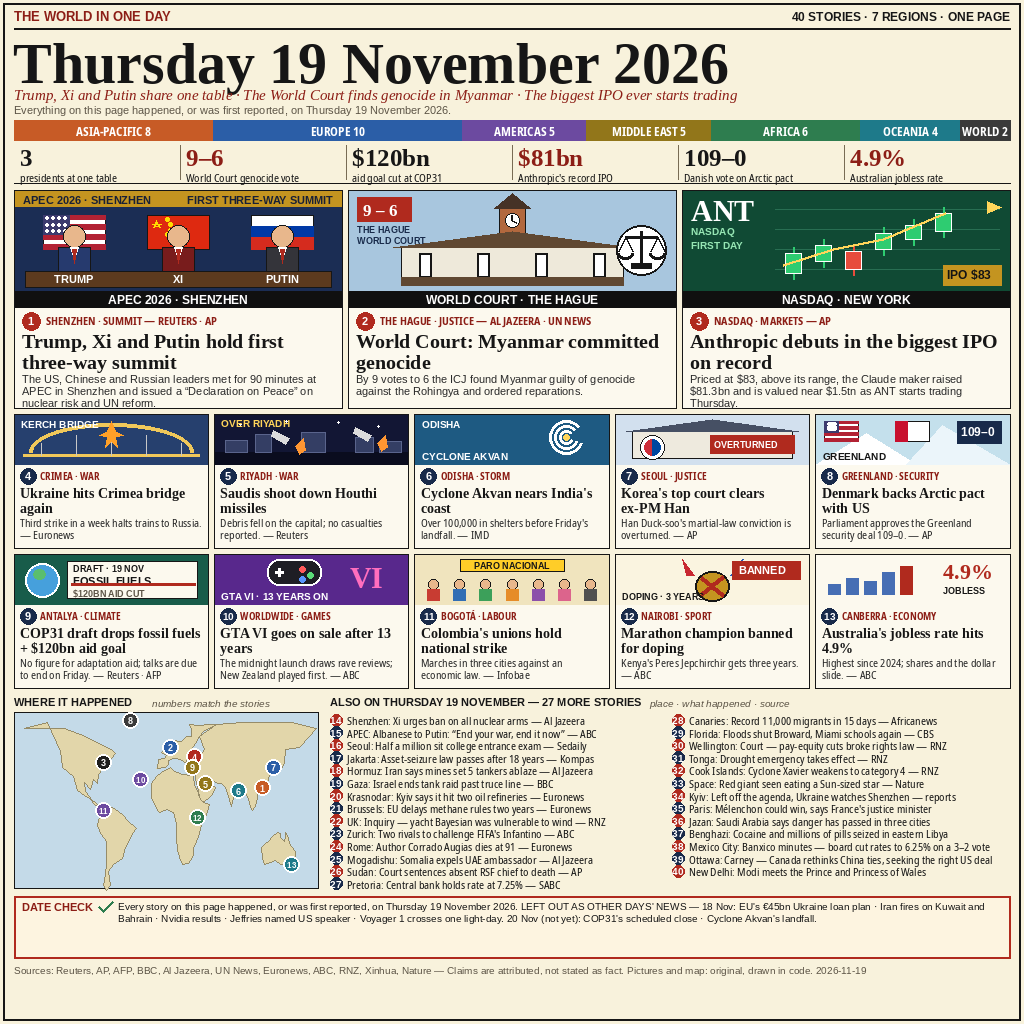
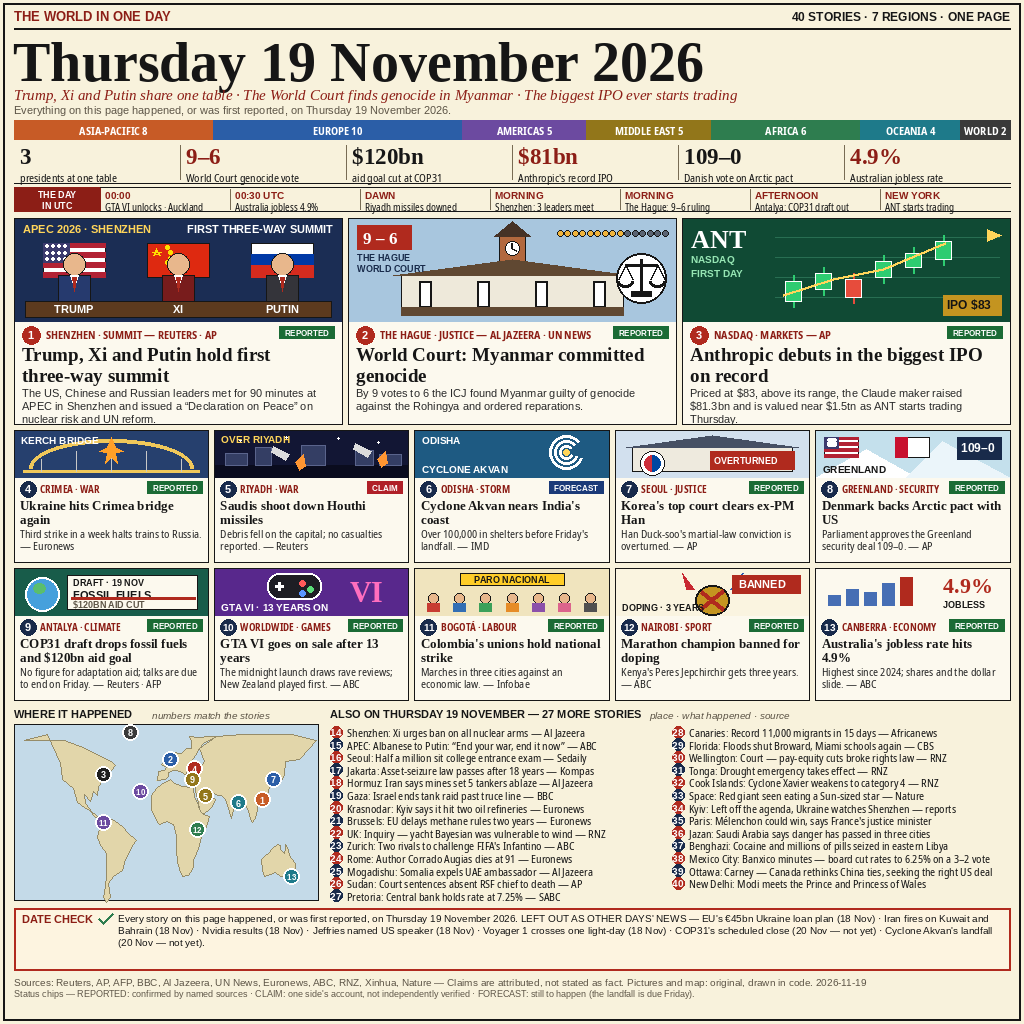
v3: UTC timeline strip, REPORTED/CLAIM/FORECAST status chips, dated DATE CHECK, judge dots

diff --git a/main.py b/main.py
@@ -100,6 +100,26 @@ def num_badge(draw, x, y, n, fill, r=9):
     draw.text((x + r - w / 2, y + r - 6), t, font=f, fill=(255, 255, 255))
 
 
+CHIP_COLORS = {"REPORTED": (27, 107, 53), "CLAIM": (176, 32, 40), "FORECAST": (27, 58, 120)}
+
+
+def chip_for(n):
+    # story 5 is the Saudi account of the Riyadh interceptions (one side's
+    # claim); story 6 is a cyclone still approaching the coast (a forecast)
+    if n == 5:
+        return "CLAIM"
+    if n == 6:
+        return "FORECAST"
+    return "REPORTED"
+
+
+def status_chip(draw, right_x, y, label):
+    f = F(SANS_B, 8)
+    w = tw(draw, label, f) + 10
+    draw.rectangle([right_x - w, y, right_x, y + 12], fill=CHIP_COLORS[label])
+    draw.text((right_x - w + 5, y + 2), label, font=f, fill=(255, 255, 255))
+
+
 # ---------------------------------------------------------------- data
 REGIONS = [
     ("ASIA-PACIFIC 8", (199, 91, 38)),
@@ -158,7 +178,7 @@ CARDS = [
      "head": "Denmark backs Arctic pact with US",
      "body": "Parliament approves the Greenland security deal 109–0."},
     {"n": 9, "tag": "ANTALYA · CLIMATE", "src": "Reuters · AFP", "art": "cop",
-     "head": "COP31 draft drops fossil fuels + $120bn aid goal",
+     "head": "COP31 draft drops fossil fuels and $120bn aid goal",
      "body": "No figure for adaptation aid; talks are due to end on Friday."},
     {"n": 10, "tag": "WORLDWIDE · GAMES", "src": "ABC", "art": "game",
      "head": "GTA VI goes on sale after 13 years",
@@ -206,9 +226,10 @@ BRIEFS = [
 
 DATE_CHECK = (
     "Every story on this page happened, or was first reported, on Thursday 19 November 2026. "
-    "LEFT OUT AS OTHER DAYS' NEWS — 18 Nov: EU's €45bn Ukraine loan plan · Iran fires on Kuwait "
-    "and Bahrain · Nvidia results · Jeffries named US speaker · Voyager 1 crosses one light-day. "
-    "20 Nov (not yet): COP31's scheduled close · Cyclone Akvan's landfall."
+    "LEFT OUT AS OTHER DAYS' NEWS — EU's €45bn Ukraine loan plan (18 Nov) · Iran fires on Kuwait "
+    "and Bahrain (18 Nov) · Nvidia results (18 Nov) · Jeffries named US speaker (18 Nov) · "
+    "Voyager 1 crosses one light-day (18 Nov) · COP31's scheduled close (20 Nov — not yet) · "
+    "Cyclone Akvan's landfall (20 Nov — not yet)."
 )
 
 SOURCES = (
@@ -255,10 +276,9 @@ def _flag_ru(draw, x, y, w, h):
 def art_summit(draw, box):
     x0, y0, x1, y1 = box
     draw.rectangle(box, fill=(27, 45, 84))
-    draw.rectangle([x0, y0, x1, y0 + 15], fill=GOLD)
-    draw.text((x0 + 8, y0 + 3), "APEC 2026 · SHENZHEN", font=F(SANS_B, 11), fill=(24, 32, 54))
+    draw.text((x0 + 8, y0 + 4), "APEC 2026 · SHENZHEN", font=F(SANS_B, 11), fill=(255, 213, 90))
     draw.text((x1 - 8 - tw(draw, "FIRST THREE-WAY SUMMIT", F(SANS_B, 11)),
-               y0 + 3), "FIRST THREE-WAY SUMMIT", font=F(SANS_B, 11), fill=(24, 32, 54))
+               y0 + 4), "FIRST THREE-WAY SUMMIT", font=F(SANS_B, 11), fill=(255, 255, 255))
     fw, fh = 62, 34
     _flag_us(draw, x0 + 28, y0 + 24, fw, fh)
     _flag_cn(draw, (x0 + x1) / 2 - fw / 2, y0 + 24, fw, fh)
@@ -304,12 +324,17 @@ def art_court(draw, box):
     draw.rectangle([sx - 10, sy + 14, sx + 10, sy + 19], fill=INK)
     draw.rectangle([x0 + 8, y0 + 6, x0 + 62, y0 + 30], fill=RED)
     draw.text((x0 + 14, y0 + 9), "9 – 6", font=F(SERIF_B, 17), fill=(255, 255, 255))
+    # the fifteen judges as dots in the sky, top right: 9 gold for, 6 slate against
+    for i in range(15):
+        cx = x1 - 118 + i * 7.5
+        draw.ellipse([cx, y0 + 11, cx + 6, y0 + 17],
+                     fill=(240, 180, 60) if i < 9 else (90, 100, 115), outline=INK, width=1)
 
 
 def art_ipo(draw, box):
     x0, y0, x1, y1 = box
     draw.rectangle(box, fill=(16, 74, 52))
-    draw.text((x0 + 8, y0 + 3), "ANT", font=F(SERIF_B, 30), fill=(255, 255, 255))
+    draw.text((x0 + 8, y0 + 5), "ANT", font=F(SERIF_B, 26), fill=(255, 255, 255))
     draw.text((x0 + 8, y0 + 34), "NASDAQ", font=F(SANS_B, 10), fill=(150, 230, 180))
     draw.text((x0 + 8, y0 + 48), "FIRST DAY", font=F(SANS_B, 10), fill=(150, 230, 180))
     # grid + candles rising
@@ -529,7 +554,7 @@ def build_image():
     d.text((X1 - tw(d, right, f), 10), right, font=f, fill=INK)
     d.line([X0, 28, X1, 28], fill=INK, width=2)
     title = "Thursday 19 November 2026"
-    ts = fit_size(d, title, SERIF_B, 58, CW)
+    ts = fit_size(d, title, SERIF_B, 56, CW)
     d.text((X0 - 1, 31), title, font=F(SERIF_B, ts), fill=INK)
     stand = "Trump, Xi and Putin share one table · The World Court finds genocide in Myanmar · The biggest IPO ever starts trading"
     ss = fit_size(d, stand, SERIF_I, 15, CW, minimum=10)
@@ -544,8 +569,8 @@ def build_image():
     rx = X0
     for i, ((label, col), cnt) in enumerate(zip(REGIONS, counts)):
         seg_w = CW * cnt / total if i < len(REGIONS) - 1 else X1 - rx
-        d.rectangle([rx, ry, rx + seg_w, ry + 20], fill=col)
-        lf = F(COND_B, 12)
+        d.rectangle([rx, ry, rx + seg_w, ry + 19], fill=col)
+        lf = F(COND_B, 11)
         d.text((rx + (seg_w - tw(d, label, lf)) / 2, ry + 3), label, font=lf, fill=(255, 255, 255))
         rx += seg_w
 
@@ -557,59 +582,88 @@ def build_image():
         cx0 = X0 + i * cell
         if i > 0:
             d.line([cx0, ny + 2, cx0, ny + 36], fill=CREAM_LINE, width=1)
-        bf = F(SERIF_B, 25)
+        bf = F(SERIF_B, 23)
         d.text((cx0 + 6, ny), big, font=bf, fill=DARKRED if i in (1, 3, 5) else INK)
         cf = F(COND_R, 11)
         lines = wrap(d, cap, cf, cell - 10, 1)
         d.text((cx0 + 6, ny + 27), lines[0] if lines else cap, font=cf, fill=INK)
 
-    # lead cards: art (100 drawn + 16 black banner) over text
-    ly = 190
-    lh = 218
+    # timeline strip: the day in UTC, built only from stories on this page
+    ty = 187
+    d.rectangle([X0, ty, X0 + 86, ty + 24], fill=DARKRED)
+    tlf = F(SANS_B, 9)
+    d.text((X0 + (86 - tw(d, "THE DAY", tlf)) / 2, ty + 2), "THE DAY", font=tlf, fill=(255, 255, 255))
+    d.text((X0 + (86 - tw(d, "IN UTC", tlf)) / 2, ty + 13), "IN UTC", font=tlf, fill=(255, 255, 255))
+    timeline = [
+        ("00:00", "GTA VI unlocks · Auckland"),
+        ("00:30 UTC", "Australia jobless 4.9%"),
+        ("DAWN", "Riyadh missiles downed"),
+        ("MORNING", "Shenzhen: 3 leaders meet"),
+        ("MORNING", "The Hague: 9–6 ruling"),
+        ("AFTERNOON", "Antalya: COP31 draft out"),
+        ("NEW YORK", "ANT starts trading"),
+    ]
+    ev_x = X0 + 86
+    ev_w = (X1 - ev_x) / 7.0
+    d.line([ev_x, ty, X1, ty], fill=INK, width=1)
+    d.line([ev_x, ty + 24, X1, ty + 24], fill=INK, width=1)
+    for i, (when, what) in enumerate(timeline):
+        ex = ev_x + i * ev_w
+        if i > 0:
+            d.line([ex, ty + 2, ex, ty + 22], fill=CREAM_LINE, width=1)
+        d.text((ex + 5, ty + 2), when, font=F(SANS_B, 10), fill=DARKRED)
+        wf = F(COND_R, 10)
+        size = 10
+        while tw(d, what, F(COND_R, size)) > ev_w - 8 and size > 8:
+            size -= 1
+            wf = F(COND_R, size)
+        d.text((ex + 5, ty + 13), what, font=wf, fill=INK)
+
+    # lead cards
+    ly = 218
+    lh = 206
     gap = 6
     lw = (CW - 2 * gap) / 3.0
-    banners = ["APEC 2026 · SHENZHEN", "WORLD COURT · THE HAGUE", "NASDAQ · NEW YORK"]
     for i, lead in enumerate(LEADS):
         bx = X0 + i * (lw + gap)
         d.rectangle([bx, ly, bx + lw, ly + lh], fill=PAPER, outline=INK, width=1)
-        art_box = (bx + 1, ly + 1, bx + lw - 1, ly + 101)
+        art_box = (bx + 1, ly + 1, bx + lw - 1, ly + 103)
         if lead["art"] == "summit":
             art_summit(d, art_box)
         elif lead["art"] == "court":
             art_court(d, art_box)
         else:
             art_ipo(d, art_box)
-        d.rectangle([bx + 1, ly + 101, bx + lw - 1, ly + 117], fill=(16, 16, 16))
-        ban = banners[i]
-        banf = F(SANS_B, 12)
-        d.text((bx + (lw - tw(d, ban, banf)) / 2, ly + 103), ban, font=banf, fill=(255, 255, 255))
         tx = bx + 8
-        num_badge(d, tx, ly + 122, lead["n"], RED)
-        d.text((tx + 24, ly + 123), lead["tag"] + " — " + lead["src"].upper(),
+        num_badge(d, tx, ly + 108, lead["n"], RED)
+        d.text((tx + 24, ly + 109), lead["tag"] + " — " + lead["src"].upper(),
                font=F(COND_B, 11), fill=DARKRED)
-        hf = F(SERIF_B, 20)
+        status_chip(d, bx + lw - 8, ly + 108, chip_for(lead["n"]))
+        hf = F(SERIF_B, 19)
         hlines = wrap(d, lead["head"], hf, lw - 16, 2)
-        yy = draw_lines(d, tx, ly + 140, hlines, hf, INK, 21)
+        yy = draw_lines(d, tx, ly + 126, hlines, hf, INK, 21)
         bf2 = F(SANS_R, 11)
         blines = wrap(d, lead["body"], bf2, lw - 16, 3)
-        draw_lines(d, tx, yy + 1, blines, bf2, (40, 40, 40), 12)
+        draw_lines(d, tx, yy + 1, blines, bf2, (40, 40, 40), 13)
 
-    # small cards 4-13: 5 columns x 2 rows, taller art, bigger headlines
+    # small cards 4-13: 5 columns x 2 rows
     cy0 = ly + lh + 6
-    ch = 134
+    ch = 132
     cw5 = (CW - 4 * gap) / 5.0
     for idx, card in enumerate(CARDS):
         row, col = divmod(idx, 5)
         bx = X0 + col * (cw5 + gap)
         by = cy0 + row * (ch + gap)
         d.rectangle([bx, by, bx + cw5, by + ch], fill=PAPER, outline=INK, width=1)
-        art_small(d, card["art"], (bx + 1, by + 1, bx + cw5 - 1, by + 50))
+        art_small(d, card["art"], (bx + 1, by + 1, bx + cw5 - 1, by + 47))
         tx = bx + 6
-        num_badge(d, tx, by + 54, card["n"], NAVY, r=8)
-        d.text((tx + 20, by + 55), card["tag"], font=F(COND_B, 10), fill=DARKRED)
-        hf = F(SERIF_B, 14)
-        hlines = wrap(d, card["head"], hf, cw5 - 12, 2)
-        yy = draw_lines(d, tx, by + 71, hlines, hf, INK, 15)
+        num_badge(d, tx, by + 51, card["n"], NAVY, r=8)
+        d.text((tx + 20, by + 52), card["tag"], font=F(COND_B, 10), fill=DARKRED)
+        status_chip(d, bx + cw5 - 6, by + 51, chip_for(card["n"]))
+        hf = F(SERIF_B, 13)
+        max_head = 3 if card["n"] == 9 else 2
+        hlines = wrap(d, card["head"], hf, cw5 - 12, max_head)
+        yy = draw_lines(d, tx, by + 68, hlines, hf, INK, 14)
         bf2 = F(COND_R, 11)
         blines = wrap(d, card["body"] + " — " + card["src"], bf2, cw5 - 12, 2)
         draw_lines(d, tx, yy, blines, bf2, (40, 40, 40), 12)
@@ -656,6 +710,10 @@ def build_image():
     sy = dy + 68
     sf = fit_size(d, SOURCES, SANS_R, 10, CW, minimum=8)
     d.text((X0, sy), SOURCES, font=F(SANS_R, sf), fill=MUTED)
+    d.text((X0, sy + 12),
+           "Status chips — REPORTED: confirmed by named sources · CLAIM: one side's account, "
+           "not independently verified · FORECAST: still to happen (the landfall is due Friday).",
+           font=F(SANS_R, 9), fill=MUTED)
     return img
 
 
